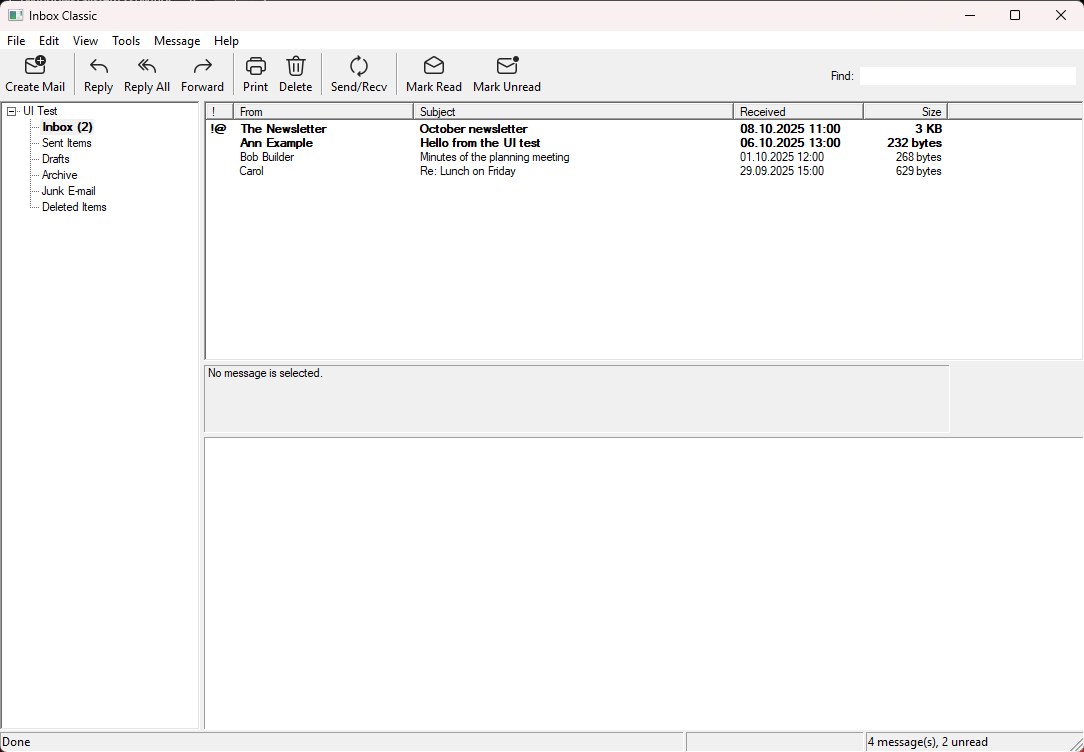
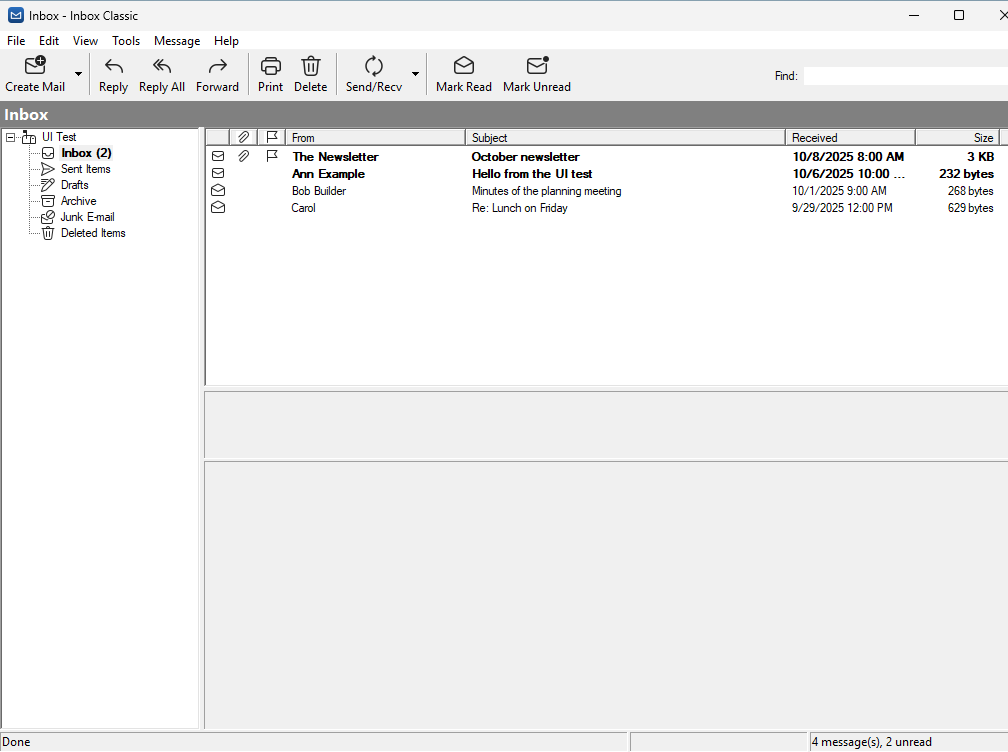
Up to date: browser sign-in for Gmail and Microsoft, the Outlook Express details, plain text replies, new screenshots

diff --git a/index.html b/index.html
@@ -314,7 +314,10 @@
                     <div class="grid">
                         <div class="card">
                             <h3>Any IMAP account</h3>
-                            <p>Type your address and password; the servers are found for you. Gmail and Outlook.com can sign in through the browser.</p>
+                            <p>
+                                Type your address and the servers are found for you. Gmail, Outlook.com and Microsoft 365 sign in on Google's or Microsoft's own
+                                page, so your password never touches the app.
+                            </p>
                         </div>
                         <div class="card">
                             <h3>Reads offline</h3>
@@ -326,7 +329,10 @@
                         </div>
                         <div class="card">
                             <h3>A real editor</h3>
-                            <p>Bold, lists, colors, links and pictures in the compose window, sent as HTML with a plain text part.</p>
+                            <p>
+                                Bold, lists, colors, links and pictures when you want them. A message without formatting goes as plain text; replies follow the
+                                original.
+                            </p>
                         </div>
                         <div class="card">
                             <h3>Drafts and an Outbox</h3>
@@ -334,7 +340,25 @@
                         </div>
                         <div class="card">
                             <h3>Find, folders, print</h3>
-                            <p>Search the folder as you type, move and flag mail, manage folders, print, and save or import .eml files.</p>
+                            <p>
+                                Search as you type, move and flag mail, manage folders, see a message's headers, print with a full preview, save or import .eml
+                                files.
+                            </p>
+                        </div>
+                        <div class="card">
+                            <h3>The look you remember</h3>
+                            <p>
+                                The folder bar, the envelopes, the paper clip and the yellow bar over blocked pictures, with crisp Fluent icons for today's
+                                screens.
+                            </p>
+                        </div>
+                        <div class="card">
+                            <h3>Several accounts</h3>
+                            <p>Every account in one tree. From shows who a message goes from and switches it; Send/Recv checks one account or all.</p>
+                        </div>
+                        <div class="card">
+                            <h3>Small and quiet</h3>
+                            <p>One program for Windows 11, installed per user without admin rights, with nothing running in the background.</p>
                         </div>
                     </div>
                 </div>
